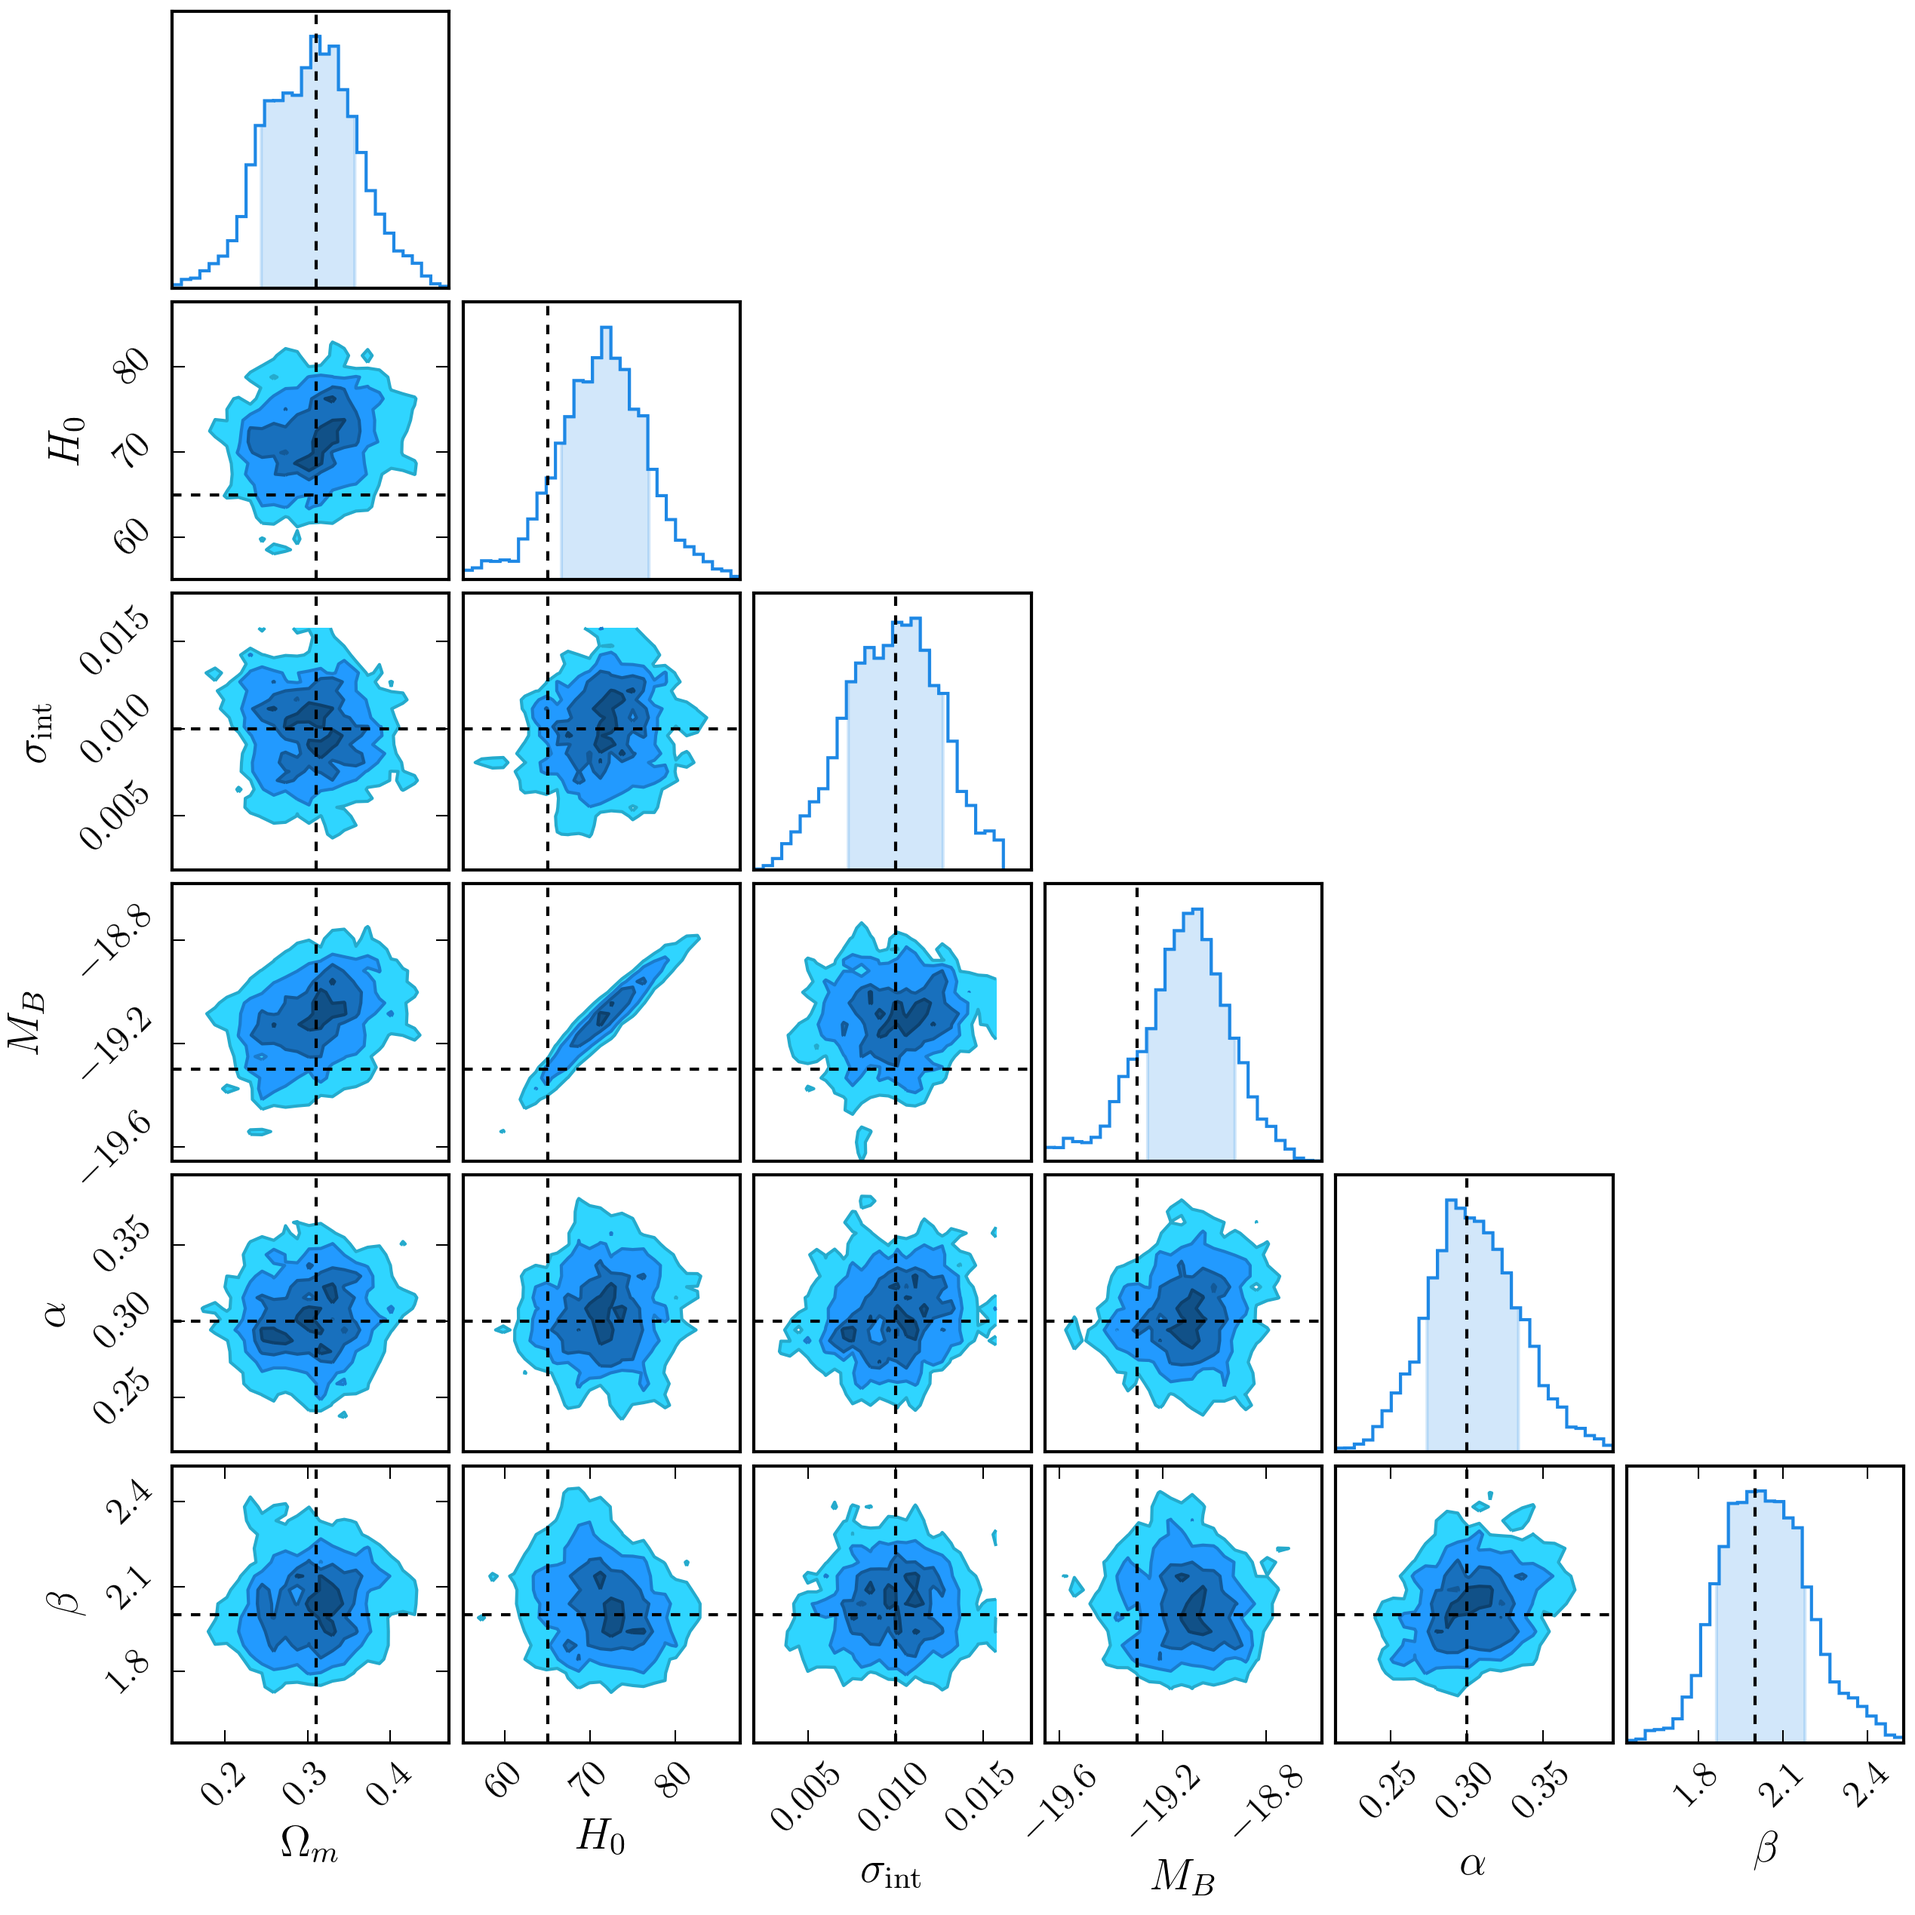
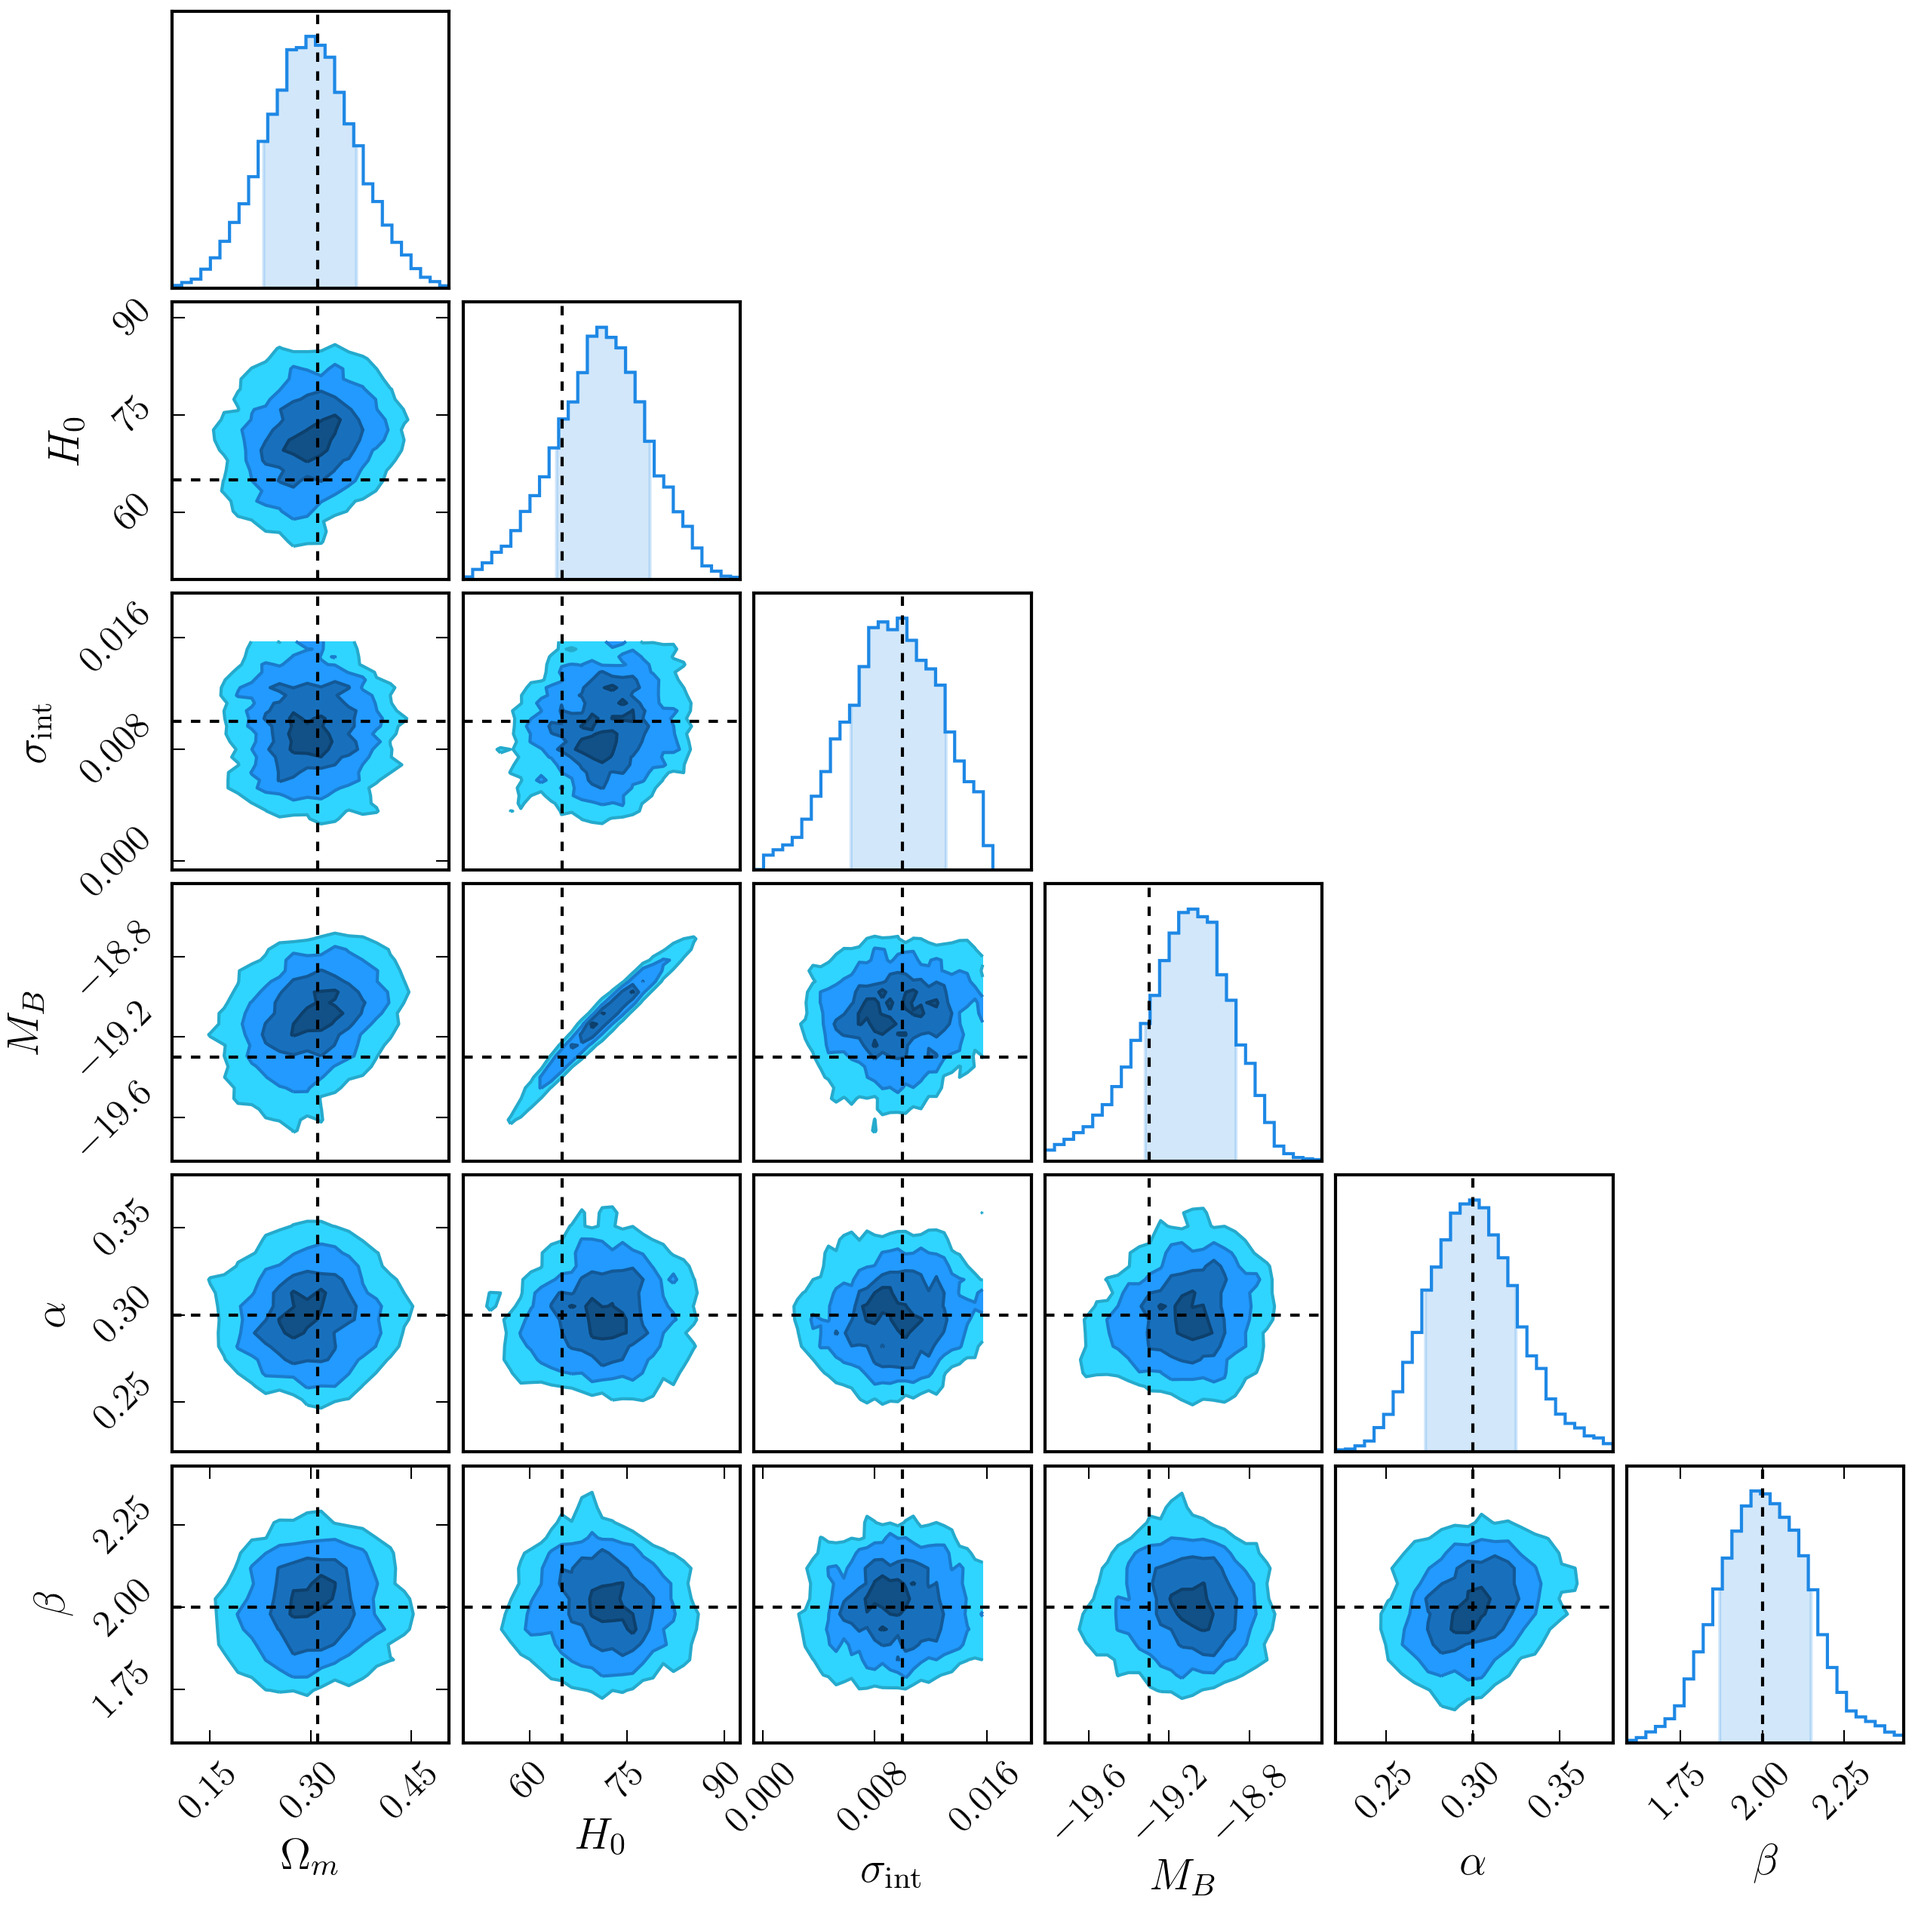
Updating for simplified toy model. Adding documentation.

diff --git a/dessn/models/c_pure_snia_simplified/edges.py b/dessn/models/c_pure_snia_simplified/edges.py
@@ -4,6 +4,19 @@ from dessn.framework.edge import Edge, EdgeTransformation
 
 
 class ToParameters(Edge):
+    r""" The likelihood of true supernova properties given the observed properties.
+
+    Given observed properties :math:`\hat{m}_B, \hat{x}_1, \hat{c}, \hat{C}`, and
+    true properties :math:`m_B, x_1, c`, we define :math:`\psi = \left( m_B - \hat{m}_B,
+    x_1 - \hat{x}_1, c - \hat{c} \right)`.
+
+    From this, we define the probability
+
+    .. math::
+        P(\hat{m}_B, \hat{x}_1, \hat{c}, \hat{C}|m_B,x_1,c) =
+        \frac{\exp\left[ -\frac{1}{2} \psi \hat{C}^{-1} \psi^T  \right]}
+        {\left| \sqrt{2 \pi \hat{C}} \right| }
+    """
     def __init__(self):
         super(ToParameters, self).__init__(["mb", "x1", "c"], ["mb_o", "x1_o", "c_o",
                                                                "inv_cov", "cov"])
@@ -23,6 +36,12 @@ class ToParameters(Edge):
 
 
 class ToRedshift(EdgeTransformation):
+    r""" Transformation to give true redshift.
+
+    In this simplified model, we assume that the observed redshifts
+    have negligible errors and no catastrophic failures, and thus
+    the true redshifts are in fact given by the observed redshifts.
+    """
     def __init__(self):
         super(ToRedshift, self).__init__("redshift", ["oredshift"])
 
@@ -31,6 +50,12 @@ class ToRedshift(EdgeTransformation):
 
 
 class ToDistanceModulus(EdgeTransformation):
+    r""" Transformation to give cosmological distance modulus.
+
+    Given :math:`\Omega_m` and :math:`H_0`, we utilise `astropy.cosmology`
+    to generate an underlying cosmology. The cosmological distance
+    modulus is then calculated from this cosmology and the given redshifts.
+    """
     def __init__(self):
         super().__init__("mu_cos", ["omega_m", "H0", "redshift"])
         self.cosmology = None
@@ -46,6 +71,16 @@ class ToDistanceModulus(EdgeTransformation):
 
 
 class ToObservedDistanceModulus(EdgeTransformation):
+    r""" Transformation to observed distance modulus.
+
+    Given a corrected supernova absolute magnitude of :math:`M = M_B - \alpha x_1 + \beta c`,
+    and an observed magnitude of :math:`m_B`, the observed distance modulus is given by:
+
+    .. math::
+        \mu_{\rm obs} = m_B - M
+
+        \mu_{\rm obs} = m_B - \alpha x_1 + \beta c - M_B
+    """
     def __init__(self):
         super().__init__("mu", ["mb", "x1", "c", "alpha", "beta", "mag"])
 
@@ -55,6 +90,25 @@ class ToObservedDistanceModulus(EdgeTransformation):
 
 
 class ToMus(Edge):
+    r""" Likelihood of cosmological distance modulus and observed distance modulus.
+
+    Given a cosmological distance modulus :math:`\mu_{\mathcal{C}}` and an observed
+    distance modulus :math:`\mu_{\rm obs}`, we define the probability as
+
+    .. math::
+        P(\mu_{\rm obs} | \mu_{\mathcal{C}}) = \frac{1}{\sqrt{2\pi}\sigma}
+        \exp\left[ -\frac{(\mu_{\rm obs} - \mu_{\mathcal{C}})^2}{2\sigma^2}  \right]
+
+    Our variance here, :math:`\sigma` is given by a combination of the variance
+    contributions from the intrinsic scatter of our supernova population :math:`\sigma_{\rm int}`
+    and the error in observed distance modulus, which is denoted :math:`\sigma_{\rm obs}` and
+    defined via:
+
+    .. math::
+        \sigma_{\rm obs}^2 = (1, \alpha, -\beta) \hat{C}^{-1} (1, \alpha, -\beta)^{-1}
+
+    Thus giving the total variance as :math:`\sigma^2 = \sigma_{rm int}^2 + \sigma_{\rm obs}^2`.
+    """
     def __init__(self):
         super().__init__("mu", ["mu_cos", "scatter", "alpha", "beta", "cov"])
         self.sqrt2pi = np.log(np.sqrt(2 * np.pi))

diff --git a/dessn/models/c_pure_snia_simplified/__init__.py b/dessn/models/c_pure_snia_simplified/__init__.py
@@ -1,4 +1,29 @@
-""" This module will contain the original toy model when implemented.
+r""" This module contains a simplified toy model.
 
+Instead of performing the analysis from the observed light curves,
+we instead observe the fitted parameters :math:`x_1`, :math:`m_B`
+and :math:`c` and covariance :math:`\hat{C}` for each supernova.
+
+From this, we can fit the *true* supernova parameters :math:`m_B`,
+:math:`x_1` and :math:`c`. We then utilise these parameters and the global
+supernova absolute magnitude :math:`M_0` to calculate the observed
+distance modulus :math:`\mu_{\rm obs}`. The observed distance
+modulus can then be combined with the cosmological distance modulus,
+which is given as a function of the observed supernova redshift and
+cosmological parameters. Graphically, the model is represented as follows.
+
+.. figure::     ../dessn/models/c_pure_snia_simplified/output/pure_snia.png
+    :align:     center
+
+
+Using simulated data from ``SNCosmo`` to test recovery of simulation
+cosmology and parameters, we find the following results.
+
+
+.. figure::     ../dessn/models/c_pure_snia_simplified/output/surface.png
+    :align:     center
+
+.. figure::     ../dessn/models/c_pure_snia_simplified/output/walk.png
+    :align:     center
 
 """

diff --git a/dessn/models/c_pure_snia_simplified/c_model.py b/dessn/models/c_pure_snia_simplified/c_model.py
@@ -78,11 +78,11 @@ if __name__ == "__main__":
         pgm_file = os.path.abspath(dir_name + "/output/pure_snia.png")
         # fig = model.get_pgm(pgm_file)
 
-    model.fit_model(num_steps=4000, num_burn=500, temp_dir=temp_dir, save_interval=60)
+    model.fit_model(num_steps=4368, num_burn=800, temp_dir=temp_dir, save_interval=60)
 
     if not only_data:
         chain_consumer = model.get_consumer()
-        chain_consumer.configure_general(max_ticks=4)
+        chain_consumer.configure_general(max_ticks=4, bins=0.7)
         chain_consumer.plot_walks(display=False, filename=walk_file, figsize=(20, 10), truth=theta)
         chain_consumer.plot(display=False, filename=plot_file, figsize="grow", truth=theta)
 

diff --git a/dessn/tests/unit/test_discrete_observables.py b/dessn/tests/unit/test_discrete_observables.py
@@ -57,7 +57,7 @@ class ToUnderlying(Edge):
         return result
 
 
-class DiscreteModel(Model):
+class DiscreteModelTest2(Model):
     def __init__(self):
         super().__init__("DiscreteModel")
         data = [{"heads": 0.8, "tails": 0.2}, {"heads": 0.2, "tails": 0.8}]
@@ -71,7 +71,7 @@ class DiscreteModel(Model):
 
 
 class TestDiscrete(object):
-    model = DiscreteModel()
+    model = DiscreteModelTest2()
     theta = [0.6]
 
     def test_latent_num_parameters(self):

diff --git a/dessn/tests/unit/test_discrete_observables_mixed.py b/dessn/tests/unit/test_discrete_observables_mixed.py
@@ -63,7 +63,7 @@ class ToUnderlying(Edge):
         return result
 
 
-class DiscreteModel(Model):
+class DiscreteModelTest4(Model):
     def __init__(self):
         super().__init__("DiscreteModel")
         data = [{"heads": 0.8, "tails": 0.2}, "heads"]
@@ -77,7 +77,7 @@ class DiscreteModel(Model):
 
 
 class TestDiscreteMixed(object):
-    model = DiscreteModel()
+    model = DiscreteModelTest4()
     theta = [0.6]
 
     def test_latent_num_parameters(self):

diff --git a/dessn/tests/unit/test_discrete_observables_numpy.py b/dessn/tests/unit/test_discrete_observables_numpy.py
@@ -60,7 +60,7 @@ class ToUnderlying(Edge):
         return result
 
 
-class DiscreteModel(Model):
+class DiscreteModelTest3(Model):
     def __init__(self):
         super().__init__("DiscreteModel")
         data = np.array([0.8, 0.2])
@@ -74,7 +74,7 @@ class DiscreteModel(Model):
 
 
 class TestDiscreteNumpy(object):
-    model = DiscreteModel()
+    model = DiscreteModelTest3()
     theta = [0.6]
 
     def test_latent_num_parameters(self):

diff --git a/dessn/tests/unit/test_discrete_underlying.py b/dessn/tests/unit/test_discrete_underlying.py
@@ -64,7 +64,7 @@ class ToUnderlying(Edge):
         return result
 
 
-class DiscreteModel(Model):
+class DiscreteModelTest(Model):
     def __init__(self):
         super().__init__("DiscreteModel")
         rate = 0.7
@@ -116,7 +116,7 @@ class DiscreteModelFailure(Model):
 
 
 class TestDiscrete(object):
-    model = DiscreteModel()
+    model = DiscreteModelTest()
     theta = [0.7]
 
     def test_latent_num_parameters(self):

diff --git a/doc/index.rst b/doc/index.rst
@@ -37,7 +37,8 @@ see :py:mod:`dessn.chain`.
 Implementations
 ---------------
 
-Finally, for the toy model implementations, see :py:mod:`dessn.models`
+Finally, for the toy model implementations, see :py:mod:`dessn.models`. Specially, for the
+working toy model implementation, see :py:mod:`dessn.models.c_pure_snia_simplified`.
 
 
 General
